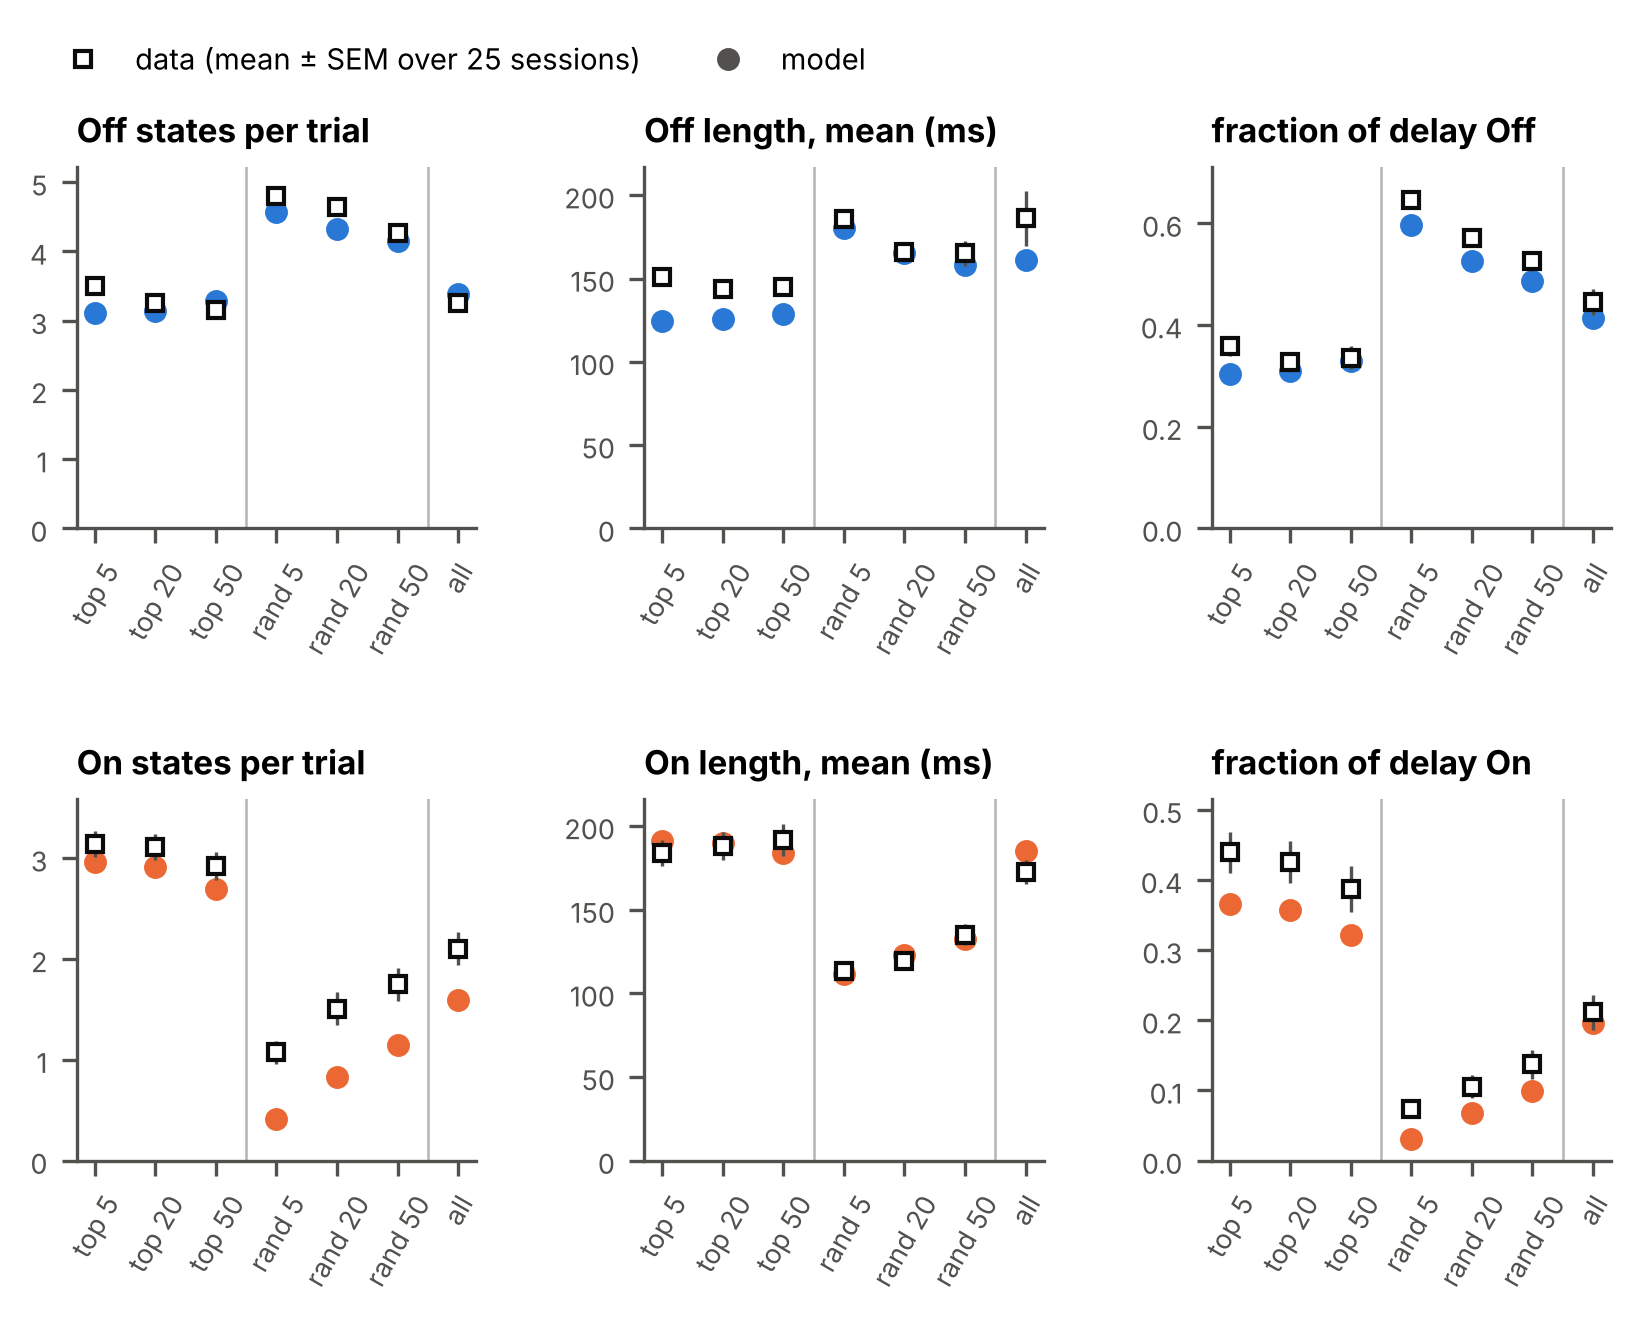
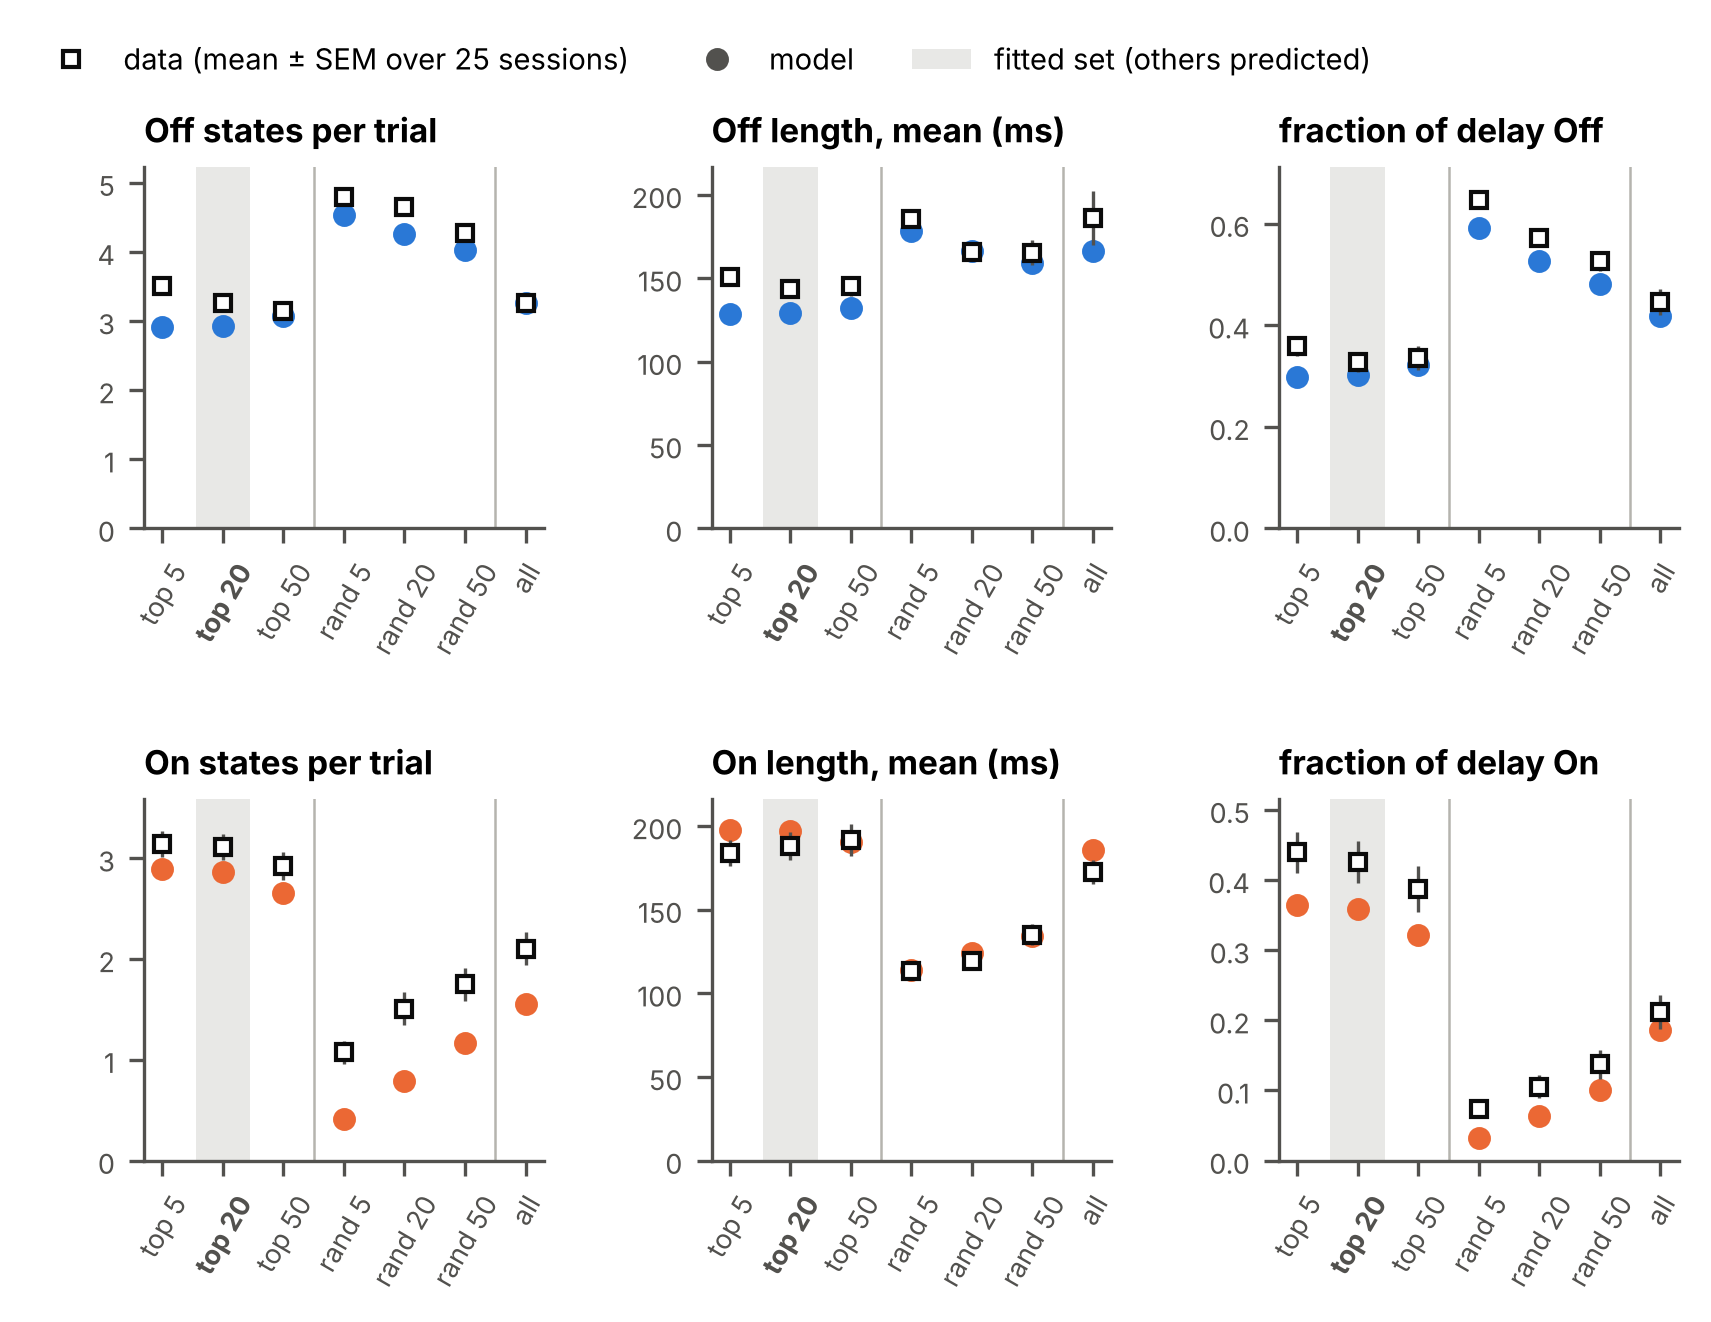
Fit the dynamics to the top-20 set only; the other six unit sets are predictions
Claude-Session: https://claude.ai/code/session_01DWA8oLxpZgubPZ4A6kb3Lh

diff --git a/paper_model/make_figures.py b/paper_model/make_figures.py
@@ -3,7 +3,8 @@
 Figure 1: A, an example trial: 1 s of delay with a constant common input, then dips switched on (pool rates
           and NMDA gating, decoding z from all units, with On/Off labels; common input below). B, right of A: all-unit Off and On
           length histograms (counts, states 0-1,400 ms after cue onset, as in the fit).
-Figure 2: On/Off statistics of every unit set, model vs data.
+Figure 2: On/Off statistics of every unit set, model vs data; dynamics fitted to model.FIT_SET only, the other
+          sets predicted by changing the read-out (gain from the data's mu_on, noise share).
 
 usage: python -m paper_model.make_figures [--n-trials 2112] [--seed 1] [--out figures/paper_model]
 """
@@ -161,10 +162,14 @@ def figure2(out, summ, path):
         a.plot(x, [out['sets'][s][mk] for s in R.SETS], 'o', ms=4.5, color=col, zorder=2)
         a.set_xticks(x); a.set_xticklabels(R.LABELS, rotation=60, fontsize=6.5)
         a.axvline(2.5, color=MUTED, lw=0.6); a.axvline(5.5, color=MUTED, lw=0.6)
+        j = R.SETS.index(M.FIT_SET)
+        a.axvspan(j - 0.45, j + 0.45, color=MUTED, alpha=0.3, lw=0, zorder=0)    # the set the dynamics were fitted to
+        a.get_xticklabels()[j].set_fontweight('bold')
         a.set_ylim(0, a.get_ylim()[1] * 1.05); a.tick_params(labelsize=6.5)
     fig.legend(handles=[Line2D([], [], ls='', marker='s', ms=4, mfc='white', mec=INK, label='data (mean ± SEM over 25 sessions)'),
-                        Line2D([], [], ls='', marker='o', ms=4.5, color=INK2, label='model')],
-               loc='lower left', bbox_to_anchor=(0.1, 0.93), ncol=2, fontsize=7)
+                        Line2D([], [], ls='', marker='o', ms=4.5, color=INK2, label='model'),
+                        plt.Rectangle((0, 0), 1, 1, color=MUTED, alpha=0.3, lw=0, label='fitted set (others predicted)')],
+               loc='lower left', bbox_to_anchor=(0.06, 0.93), ncol=3, fontsize=7)
     fig.savefig(path, dpi=300, bbox_inches='tight')
     plt.close(fig)
 

diff --git a/paper_model/model.py b/paper_model/model.py
@@ -30,16 +30,17 @@ FIXED = dict(
     dt=0.5,
 )
 
-# best fit (CMA-ES, fit.py) to the lambda = 10,000 read-out table of 25 sessions: On/Off statistics and length
-# histograms of all 7 unit sets
+# best fit (CMA-ES, fit.py --fit-set 'top 20') to the On/Off statistics and length histograms of the top-20 unit set
+# only (lambda = 10,000 read-out table, 25 sessions); the other six unit sets are predictions
+FIT_SET = ('top', '20')
 FIT = dict(
-    tau_N=131.65,      # ms, NMDA decay
-    w_s=1.6095,         # NMDA recurrent strength
-    dip_rate=10.249,    # dips per s
-    dip_mean=118.56,   # ms, mean dip length
-    dip_shape=5.243,   # gamma shape of dip lengths
-    dip_depth=0.8426,  # fractional drop of the input in a dip
-    sigma=0.0115,      # fast noise on the pools
+    tau_N=150.00,      # ms, NMDA decay
+    w_s=1.5934,         # NMDA recurrent strength
+    dip_rate=11.370,    # dips per s
+    dip_mean=114.72,   # ms, mean dip length
+    dip_shape=3.938,   # gamma shape of dip lengths
+    dip_depth=0.7489,  # fractional drop of the input in a dip
+    sigma=0.0066,      # fast noise on the pools
 )
 
 BOUNDS = dict(tau_N=(50.0, 150.0), w_s=(1.30, 1.70), dip_rate=(0.5, 12.0), dip_mean=(20.0, 300.0),

diff --git a/paper_model/README.md b/paper_model/README.md
@@ -9,13 +9,14 @@ when the input returns, and the pool with more residual NMDA wins. The model is 
 |---|---|
 | `model.py` | equations, fixed parameters (`FIXED`), best fit (`FIT`), fit bounds, simulation, memory check |
 | `readout.py` | z = gain × (cued − uncued rate, 100 ms windows) + measured noise; gain anchored to the data's μ_on per unit set; On/Off labelling; statistics per unit set |
-| `fit.py` | CMA-ES fit of `FIT` (loss: six On/Off statistics and the On/Off length histograms of each of 7 unit sets, memory ≥ 98% on the fit's trials) |
+| `fit.py` | CMA-ES fit of `FIT` (loss: six On/Off statistics and On/Off length histograms of the chosen unit set(s), memory ≥ 98% on the fit's trials; `--fit-set 'top 20'` gives `FIT`) |
 | `make_figures.py` | Figure 1 (example trial: 1 s delay without dips, then dips; all-unit decoding and length histograms, model vs data) and Figure 2 (On/Off statistics of every unit set, model vs data), `model_stats.json` |
 | `data/` | data read-out table and histograms (λ = 10,000), with the data agent's note |
 
-Fitted (to the On/Off statistics and length histograms of all 7 unit sets): τ_N 132 ms, w_s 1.61, dips 10.2/s,
-mean length 119 ms (gamma shape 5.2), depth 84%, noise σ 0.012. Memory correct at the end of the delay: 98.3%
-(2,112 new trials).
+Fitted to the top-20 unit set only (its On/Off statistics and length histograms): τ_N 150 ms, w_s 1.59,
+dips 11.4/s, mean length 115 ms (gamma shape 3.9), depth 75%, noise σ 0.007. The other six unit sets are predictions:
+the same dynamics, read out with each set's gain (from the data's μ_on) and noise share. Memory correct at the end
+of the delay: 98.2% (2,112 new trials).
 
 ```
 pip install numpy numba scikit-learn matplotlib cma
